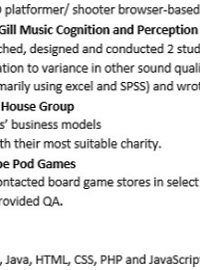
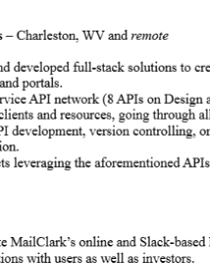
tidied up some stuff, got it looking and working better

diff --git a/searchGame.html b/searchGame.html
@@ -146,7 +146,7 @@
   <div id= "navi" class="navbar navbar-default">
     <div class="container-fluid">
       <div class="navbar-header">
-        <a class="navbar-brand" href="">Make another choice</a>
+        <a class="navbar-brand" href="">Restart</a>
         <button type="button" class="navbar-toggle" data-toggle="collapse" data-target="#mine">
           <span class="icon-bar"></span>
           <span class="icon-bar"></span>
@@ -157,7 +157,7 @@
       
       <div class="collapse navbar-collapse" id="mine">
         <ul class="nav navbar-nav">
-          <li class="active"><a href="index.html">Home</a></li>
+          <li><a href="index.html">Home</a></li>
           <li><a href="projects.html">Projects</a></li>
         </ul>
       </div>
@@ -197,7 +197,7 @@
      <h1>Hi I'm Jack, this site encapulates all there is of me and more!</h1>
   </div> -->
 
-    <img id="CV-image" class="col-md-6 col-md-offset-3" src="CV2016.png" alt="my resume">
+    <img id="CV-image" class="col-md-6 col-md-offset-3" src="cv2018.png" alt="my resume">
 
 </div>
 

diff --git a/reactionGame.html b/reactionGame.html
@@ -76,7 +76,7 @@
   <div class="navbar navbar-default">
     <div class="container-fluid">
       <div class="navbar-header">
-        <a class="navbar-brand" href="">Make another choice</a>
+        <a class="navbar-brand" href="">Restart</a>
         <button type="button" class="navbar-toggle" data-toggle="collapse" data-target="#mine">
           <span class="icon-bar"></span>
           <span class="icon-bar"></span>
@@ -87,7 +87,7 @@
       
       <div class="collapse navbar-collapse" id="mine">
         <ul class="nav navbar-nav">
-          <li class="active"><a href="index.html">Home</a></li>
+          <li><a href="index.html">Home</a></li>
           <li><a href="projects.html">Projects</a></li>
         </ul>
       </div>
@@ -111,7 +111,7 @@
      <h1>Hi I'm Jack, this site encapulates all there is of me and more!</h1>
   </div> -->
 
-    <img id="CV-image" class="col-md-6 col-md-offset-3" src="CV2016.png" alt="my resume">
+    <img id="CV-image" class="col-md-6 col-md-offset-3" src="cv2018.png" alt="my resume">
 
 </div>
 

diff --git a/index.html b/index.html
@@ -130,8 +130,9 @@
       
       <div class="collapse navbar-collapse" id="mine">
         <ul class="nav navbar-nav">
+          <li class="active"><a href="">Home</a></li>
           <li><a href="projects.html">Projects</a></li>
-          <li class="active"><a href="https://github.com/jacktokarz?tab=repositories">GitHub</a></li>
+          <li><a href="https://github.com/jacktokarz?tab=repositories">GitHub</a></li>
         </ul>
       </div>
     </div>

diff --git a/projects.html b/projects.html
@@ -63,7 +63,8 @@
       <div class="collapse navbar-collapse" id="mine">
         <ul class="nav navbar-nav">
           <li><a href="index.html">Home</a></li>
-          <li class="active"><a href="https://github.com/jacktokarz?tab=repositories">GitHub</a></li>
+          <li class="active"><a href="">Projects</a></li>
+          <li><a href="https://github.com/jacktokarz?tab=repositories">GitHub</a></li>
         </ul>
       </div>
     </div>
